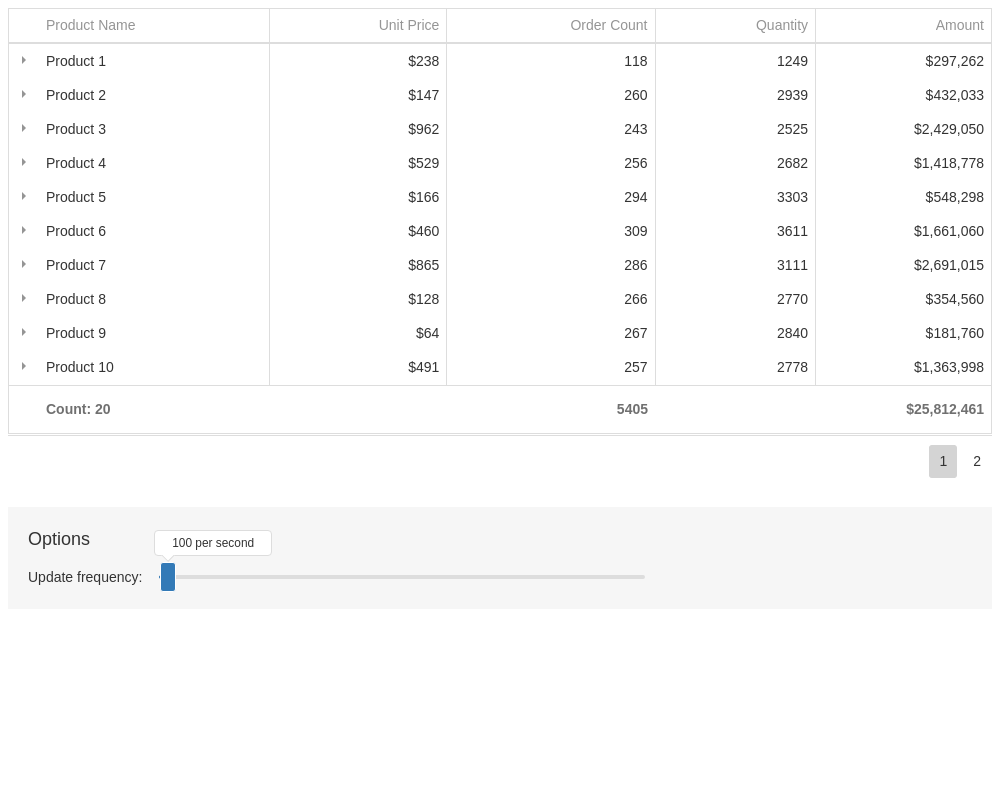
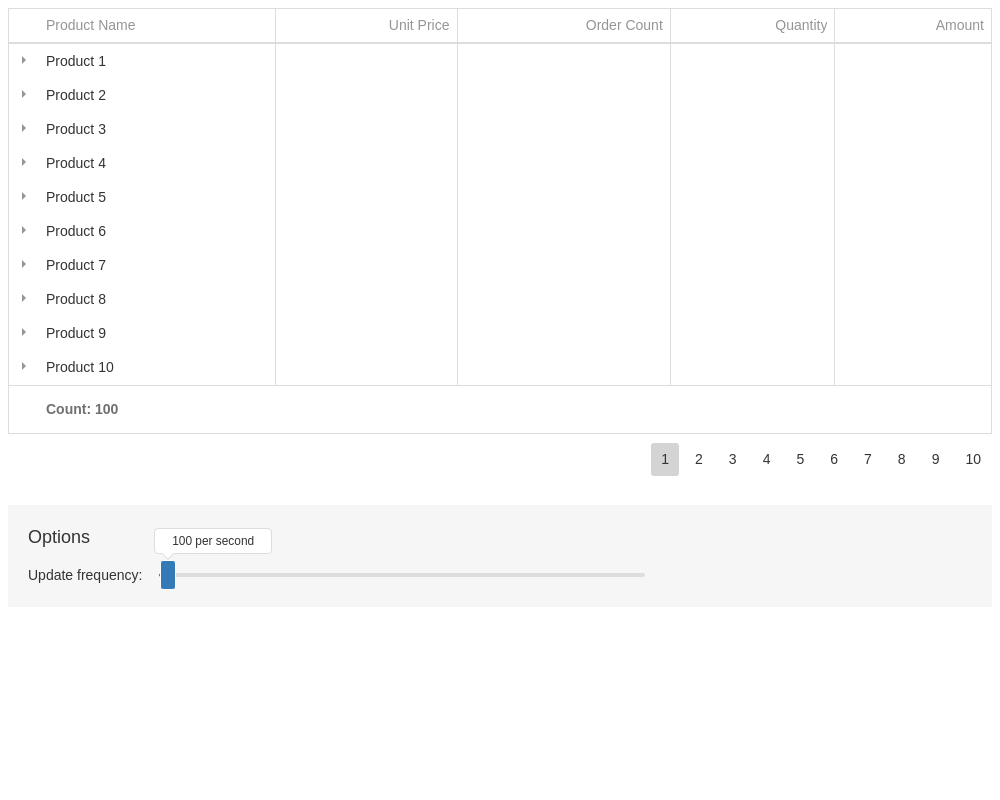
Fix test: DataGrid-RealTimeUpdates (#1291)

diff --git a/JSDemos/Demos/DataGrid/RealTimeUpdates/test-styles.css b/JSDemos/Demos/DataGrid/RealTimeUpdates/test-styles.css
@@ -1,0 +1,7 @@
+/* Make random values invisible */
+td[role="gridcell"][aria-colindex="3"],
+td[role="gridcell"][aria-colindex="4"],
+td[role="gridcell"][aria-colindex="5"],
+td[role="gridcell"][aria-colindex="6"] {
+    opacity: 0;
+}
